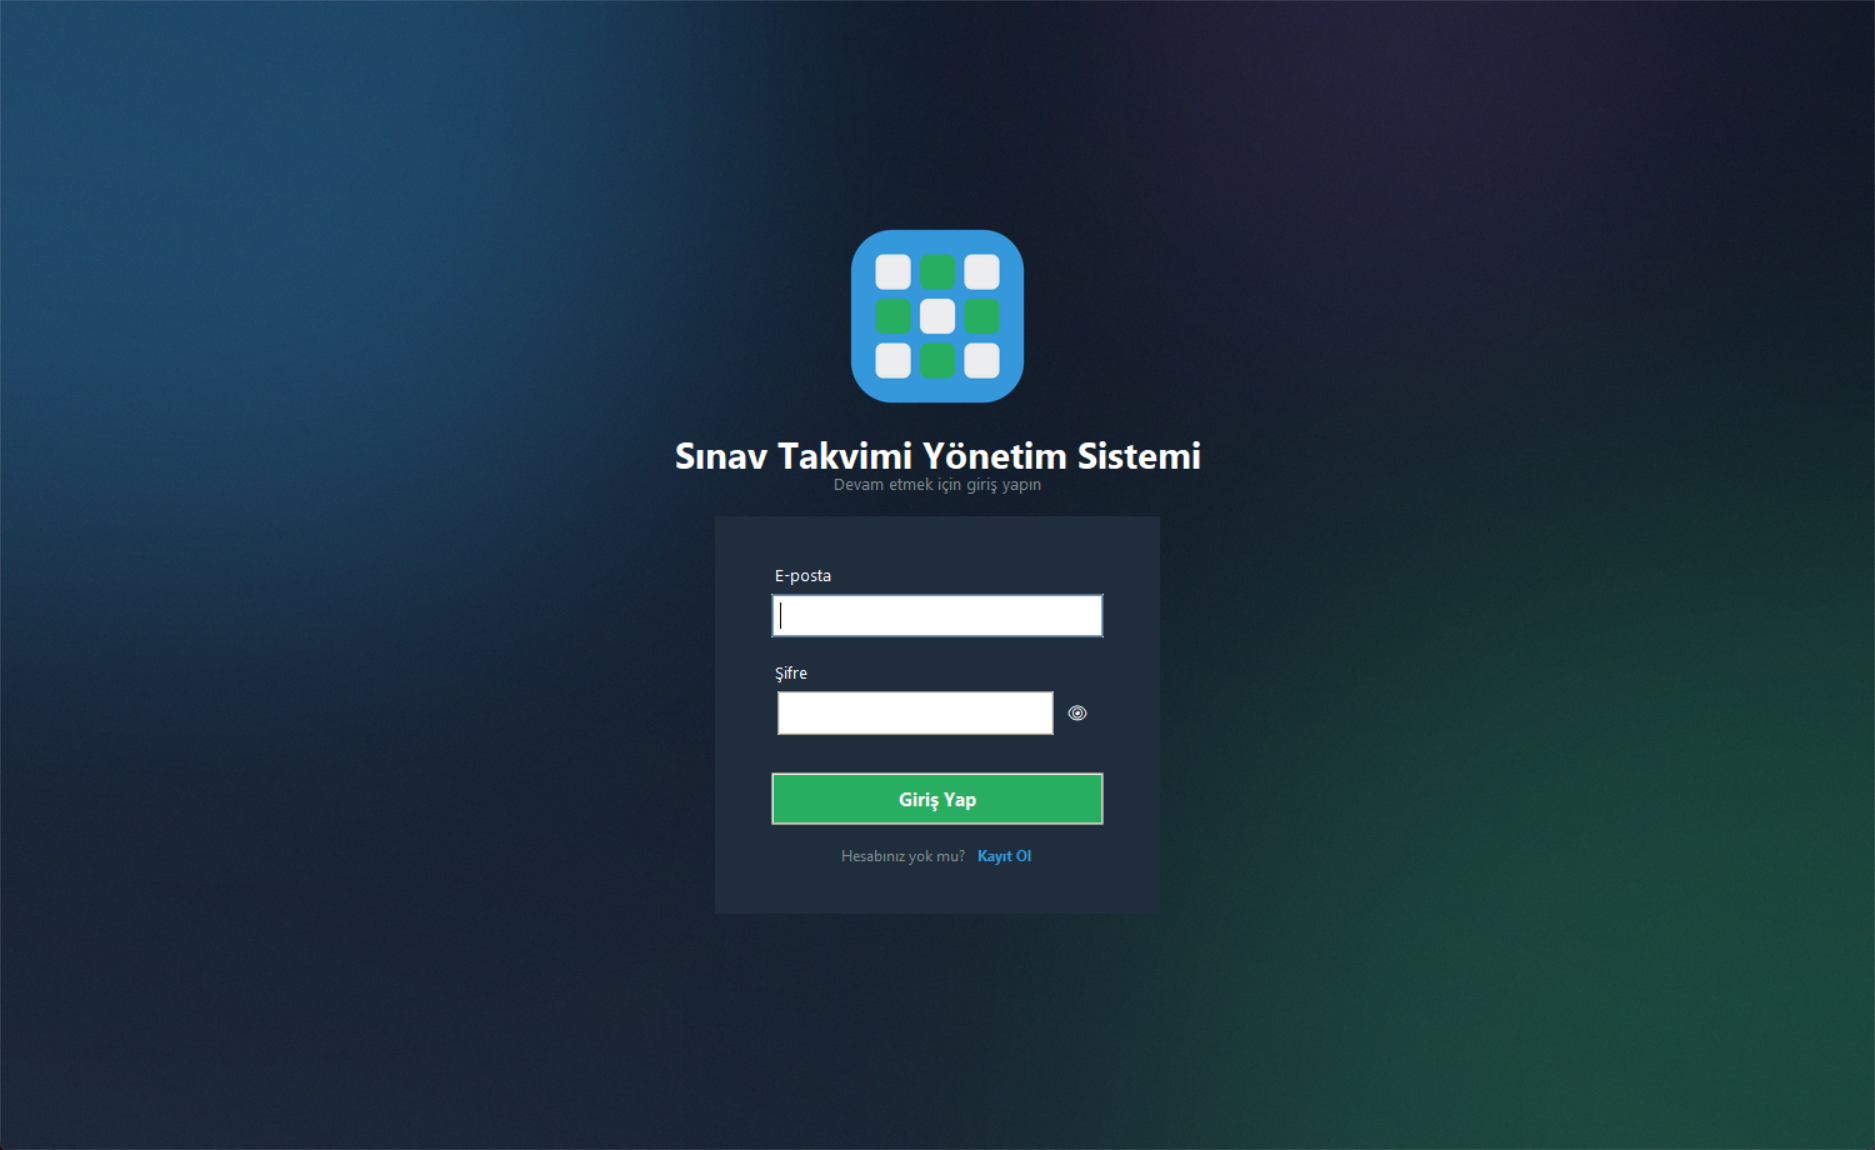
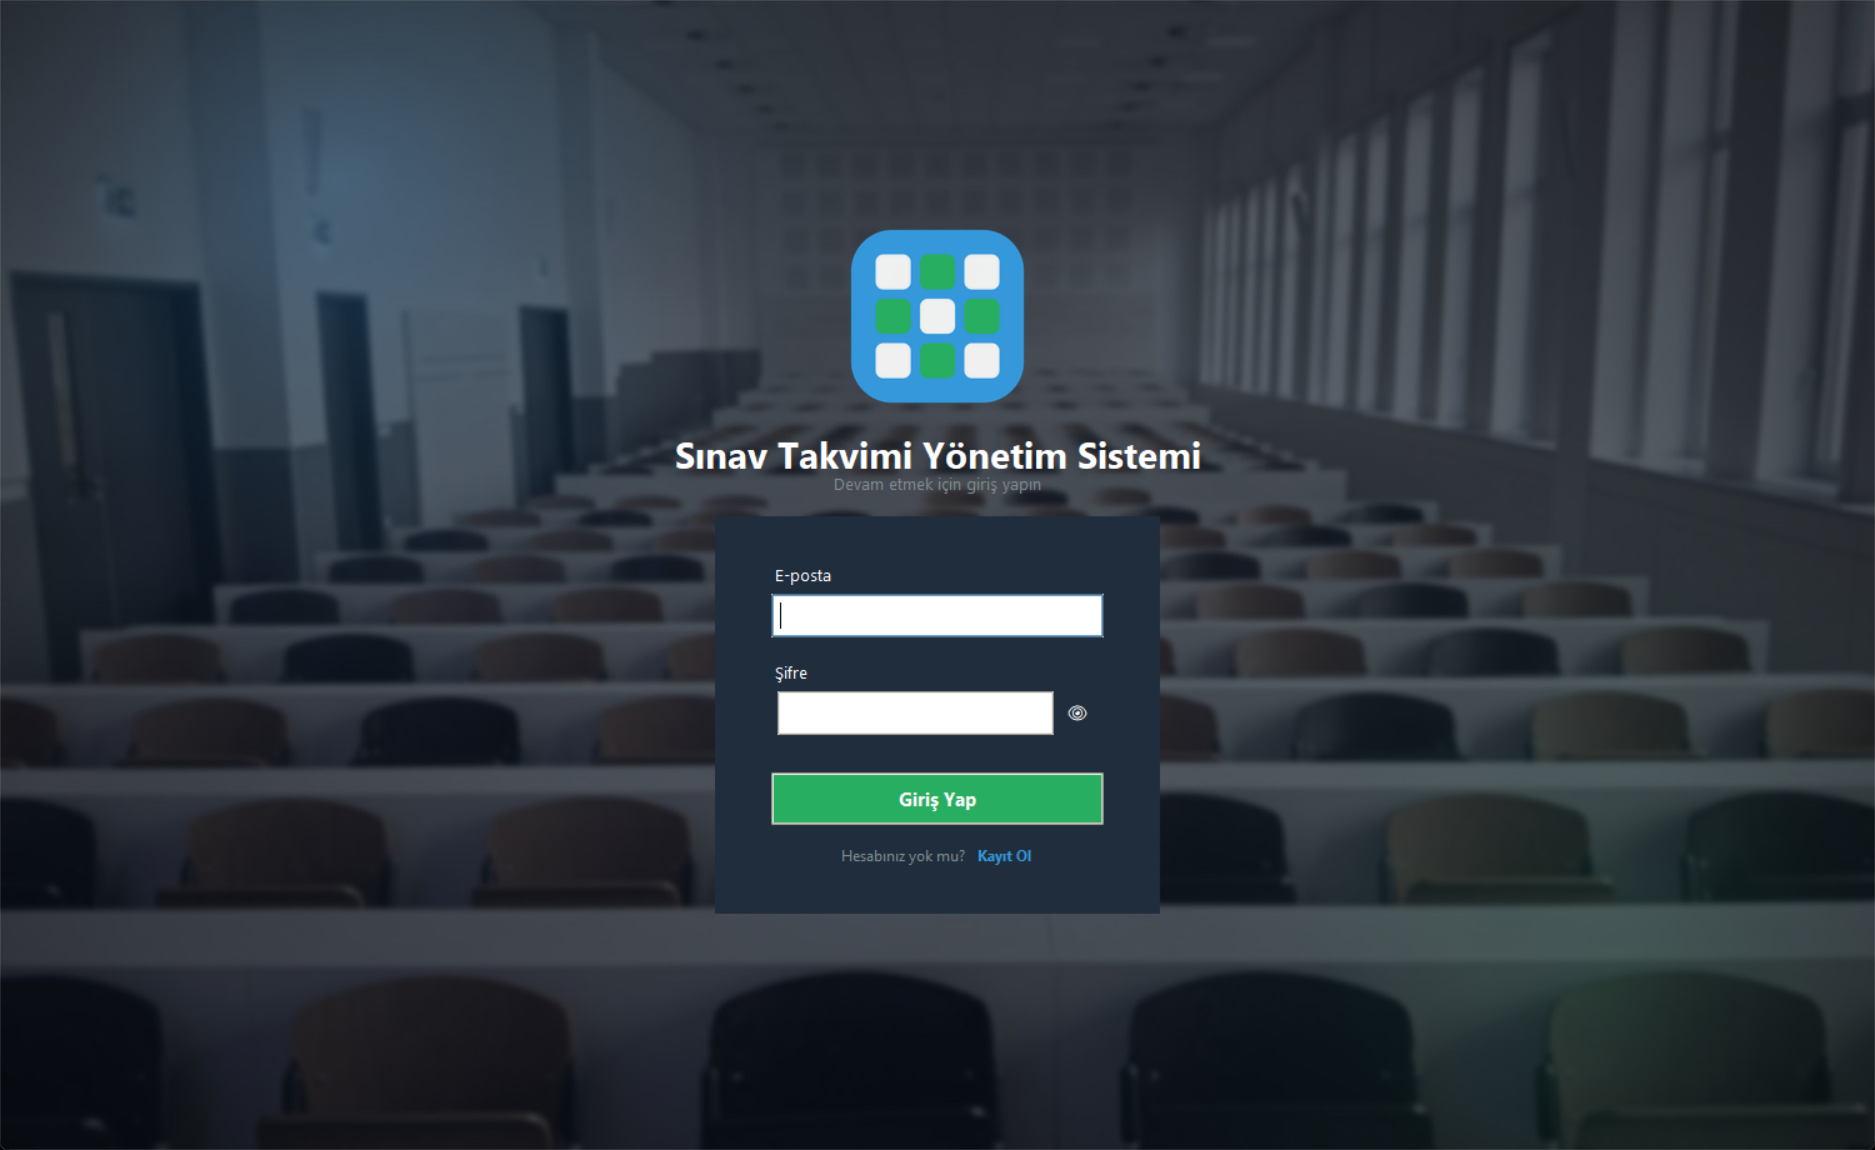
Fotograf arka planlar, tum ekranlara ortak tema ve arayuz duzeltmeleri
Gorseller (Unsplash Lisansi, ticari kullanim serbest, atif zorunlu degil):
- Giris/kayit ekrani: bos amfi fotografi, palete gore koyulastirildi
- Ana panel: derste not alan ogrenciler, icerigin altinda kalacak sekilde
  aciklastirildi ve ust kenari zemine eritildi (gorunur sinir olusmuyor)

Arayuz:
- Klasik tk widget varsayilanlari tek yerden ayarlandi; ~30 alt ekran artik
  Windows'un varsayilan grisi yerine uygulamanin zeminini kullaniyor
- Panele kaydirma cubugu eklendi, icerik sigmadiginda beliriyor
- Kayit ekranindaki bolum listesine + butonu eklendi; listede bolum yoksa
  kullanici artik sikismiyor

Duzeltmeler:
- Ogrenciye ders atama ekranindaki iki liste kutusu birbirinin secimini
  siliyordu (exportselection), duzeltildi
- Ekranlar arasi hizli gecimlerde gecikmeli yerlesim cagrisi yok edilmis
  pencereye ulasip TclError firlatiyordu, yasam dongusu kontrolu eklendi
- Kayit formu, alanlar eklendikten sonra yeniden ortalanmadigi icin uzun
  pencerelerde alttan kesiliyordu

diff --git a/sinav_oturma_plani/ui/dashboard.py b/sinav_oturma_plani/ui/dashboard.py
@@ -13,8 +13,7 @@ class DashboardMixin:
         self._build_menubar()
         self._build_header()
 
-        body = tk.Frame(self.root, bg=COLORS['bg_light'])
-        body.pack(fill=tk.BOTH, expand=True)
+        body, refresh_layout = self._build_scrollable_body()
 
         if self.current_role == "Admin" and not self.current_bolum:
             self._build_department_prompt(body)
@@ -26,6 +25,7 @@ class DashboardMixin:
             self._build_upcoming_exams(body)
 
         self._build_decoration(body)
+        self.root.after(0, refresh_layout)
 
     def _build_menubar(self):
         menubar = tk.Menu(self.root)
@@ -83,15 +83,72 @@ class DashboardMixin:
                 sinav_menu.add_command(label="Çakışma Raporu", command=self.show_exam_conflicts)
                 sinav_menu.add_command(label="Sınav Takvimi (Genel Görünüm)", command=self.show_exam_calendar)
 
+    def _build_scrollable_body(self):
+        """Panel gövdesi. İçerik pencereye sığmadığında kaydırma çubuğu belirir;
+        sığdığında dekor katmanı kalan boşluğu doldurur.
+
+        `(icerik_cercevesi, yerlesimi_tazeleyen_fonksiyon)` döndürür."""
+        outer = tk.Frame(self.root, bg=COLORS['bg_light'])
+        outer.pack(fill=tk.BOTH, expand=True)
+
+        canvas = tk.Canvas(outer, highlightthickness=0, bd=0, bg=COLORS['bg_light'])
+        scrollbar = ttk.Scrollbar(outer, orient="vertical", command=canvas.yview)
+        canvas.configure(yscrollcommand=scrollbar.set)
+        canvas.pack(side=tk.LEFT, fill=tk.BOTH, expand=True)
+
+        inner = tk.Frame(canvas, bg=COLORS['bg_light'])
+        inner_item = canvas.create_window(0, 0, window=inner, anchor="nw")
+
+        def refresh(_event=None):
+            if not canvas.winfo_exists():
+                return
+
+            width, height = canvas.winfo_width(), canvas.winfo_height()
+            if width < 2:
+                return
+            canvas.itemconfig(inner_item, width=width)
+
+            deco = getattr(self, '_panel_decoration', None)
+            if deco is not None and deco.winfo_exists():
+                # Dekor dışındaki içeriğin kapladığı yer kadarını çıkarıp
+                # kalan boşluğu dekora veriyoruz.
+                kullanilan = inner.winfo_reqheight() - int(deco.cget('height'))
+                deco.configure(height=max(90, height - kullanilan))
+
+            gereken = inner.winfo_reqheight()
+            if gereken > height:
+                scrollbar.pack(side=tk.RIGHT, fill=tk.Y)
+                canvas.configure(scrollregion=(0, 0, width, gereken))
+            else:
+                scrollbar.pack_forget()
+                canvas.yview_moveto(0)
+                canvas.configure(scrollregion=(0, 0, width, height))
+
+        canvas.bind("<Configure>", refresh, add="+")
+        inner.bind("<Configure>", refresh, add="+")
+
+        def on_wheel(event):
+            if inner.winfo_reqheight() > canvas.winfo_height():
+                canvas.yview_scroll(-int(event.delta / 120), "units")
+
+        # bind_all yalnızca imleç panelin üzerindeyken bağlanır; aksi halde
+        # açık olan diğer pencerelerin tekerlek olaylarını da yakalardı.
+        canvas.bind("<Enter>", lambda _e: canvas.bind_all("<MouseWheel>", on_wheel))
+        canvas.bind("<Leave>", lambda _e: canvas.unbind_all("<MouseWheel>"))
+
+        return inner, refresh
+
     def _build_decoration(self, parent):
         """İçeriğin altında kalan boşluğu dekoratif arka planla doldurur.
 
         Ayrı bir katman olarak en sona yerleştirilir; böylece içerik ne kadar
         yer kaplarsa kaplasın dekor tam onun bittiği yerden başlar ve araya
         görünür bir sınır girmez."""
-        canvas = tk.Canvas(parent, highlightthickness=0, bd=0, bg=COLORS['bg_light'])
-        canvas.pack(fill=tk.BOTH, expand=True)
+        canvas = tk.Canvas(parent, highlightthickness=0, bd=0, bg=COLORS['bg_light'],
+                            height=90)
+        canvas.pack(fill=tk.X)
         ResponsiveBackground(canvas, self.panel_bg_source)
+        self._panel_decoration = canvas
         return canvas
 
     def _build_header(self):

diff --git a/sinav_oturma_plani/ui/auth.py b/sinav_oturma_plani/ui/auth.py
@@ -1,7 +1,7 @@
 """Giriş, kayıt ve bölüm seçimi ekranları."""
 import re
 import tkinter as tk
-from tkinter import ttk, messagebox
+from tkinter import ttk, messagebox, simpledialog
 
 from pymongo.errors import DuplicateKeyError, PyMongoError
 
@@ -34,6 +34,10 @@ class AuthMixin:
         form_item = canvas.create_window(0, 0, window=form_frame, anchor="n")
 
         def layout(_event=None):
+            # Ekran değişiminde canvas, gecikmeli çağrı gelmeden yok edilebilir.
+            if not canvas.winfo_exists():
+                return
+
             w, h = canvas.winfo_width(), canvas.winfo_height()
             if w < 2 or h < 2:
                 return
@@ -48,6 +52,9 @@ class AuthMixin:
             canvas.coords(form_item, cx, top + 235)
 
         canvas.bind("<Configure>", layout, add="+")
+        # Form alanları bu fonksiyon döndükten sonra ekleniyor; yüksekliği
+        # kesinleştiğinde yeniden ortalayabilmek için formu da dinliyoruz.
+        form_frame.bind("<Configure>", layout, add="+")
         self.root.after(0, layout)
         return form_frame
 
@@ -143,13 +150,38 @@ class AuthMixin:
         password2_entry.grid(row=5, column=0, pady=(0, 12))
 
         self._form_label(form, "Bölüm", 6)
+        bolum_row = tk.Frame(form, bg=COLORS['bg_dark'])
+        bolum_row.grid(row=7, column=0, pady=(0, 10), sticky="w")
+
         bolumler = [b['bolum_adi'] for b in self.db.bolumler.find().sort('bolum_adi', 1)]
         bolum_var = tk.StringVar(value=bolumler[0] if bolumler else "")
-        ttk.Combobox(form, textvariable=bolum_var, values=bolumler,
-                     state="readonly", width=26).grid(row=7, column=0, pady=(0, 10))
+        bolum_combo = ttk.Combobox(bolum_row, textvariable=bolum_var, values=bolumler,
+                                    state="readonly", width=22)
+        bolum_combo.pack(side=tk.LEFT)
 
-        tk.Label(form, text="Yeni hesaplar 'Bölüm Koordinatörü' olarak açılır.\n"
-                            "Admin yetkisini yalnızca bir yönetici verebilir.",
+        def add_bolum():
+            ad = simpledialog.askstring("Bölüm Ekle", "Yeni bölüm adı:", parent=self.root)
+            if not ad or not ad.strip():
+                return
+            ad = ad.strip()
+            try:
+                self.db.bolumler.insert_one({'bolum_adi': ad})
+            except DuplicateKeyError:
+                pass
+            except PyMongoError as e:
+                messagebox.showerror("Hata", f"Bölüm eklenemedi: {e}")
+                return
+            bolum_combo['values'] = [b['bolum_adi'] for b in
+                                      self.db.bolumler.find().sort('bolum_adi', 1)]
+            bolum_var.set(ad)
+
+        tk.Button(bolum_row, text="+", font=("Segoe UI", 11, "bold"), width=3, relief="flat",
+                  bd=0, bg=COLORS['primary'], fg="white", activebackground=COLORS['primary'],
+                  activeforeground="white", cursor="hand2",
+                  command=add_bolum).pack(side=tk.LEFT, padx=(6, 0))
+
+        tk.Label(form, text="Listede bölümünüz yoksa + ile ekleyebilirsiniz.\n"
+                            "Yeni hesaplar 'Bölüm Koordinatörü' olarak açılır.",
                  font=("Segoe UI", 8), bg=COLORS['bg_dark'], fg=COLORS['text_muted'],
                  justify=tk.LEFT).grid(row=8, column=0, sticky="w")
 
@@ -172,7 +204,7 @@ class AuthMixin:
                 messagebox.showerror("Hata", "Şifreler eşleşmiyor!")
                 return
             if not bolum:
-                messagebox.showerror("Hata", "Önce bir bölüm oluşturulmalı, yöneticinizle görüşün!")
+                messagebox.showerror("Hata", "Bir bölüm seçin veya + ile yeni bir tane ekleyin!")
                 return
 
             try:

diff --git a/sinav_oturma_plani/styles.py b/sinav_oturma_plani/styles.py
@@ -85,6 +85,28 @@ def configure_styles(style):
     style.configure('Treeview.Heading', font=('Segoe UI', 10, 'bold'))
 
 
+def apply_widget_defaults(root):
+    """Klasik tk widget'ları için varsayılan renkleri ayarlar.
+
+    Windows'un varsayılan gri tonu yerine uygulamanın zemin rengi kullanılır;
+    böylece ~30 ekranın her biri tek tek elden geçirilmeden aynı görünümü alır.
+    Kendi `bg`/`fg` değerini açıkça veren widget'lar bundan etkilenmez."""
+    for widget in ('Toplevel', 'Frame', 'Label', 'Labelframe',
+                    'Checkbutton', 'Radiobutton'):
+        root.option_add(f'*{widget}.background', COLORS['bg_light'])
+
+    for widget in ('Label', 'Labelframe', 'Checkbutton', 'Radiobutton'):
+        root.option_add(f'*{widget}.foreground', COLORS['text_dark'])
+
+    for widget in ('Checkbutton', 'Radiobutton'):
+        root.option_add(f'*{widget}.activeBackground', COLORS['bg_light'])
+        root.option_add(f'*{widget}.activeForeground', COLORS['text_dark'])
+        root.option_add(f'*{widget}.selectColor', COLORS['bg_card'])
+
+    root.option_add('*Entry.background', COLORS['bg_card'])
+    root.option_add('*Listbox.background', COLORS['bg_card'])
+
+
 class _HoverButton(tk.Button):
     """Üzerine gelindiğinde arka planı açılan/koyulaşan tk.Button."""
 
@@ -241,14 +263,32 @@ def generate_panel_background(width, height):
     return Image.alpha_composite(img.convert('RGBA'), layer).convert('RGB')
 
 
+def fade_top_to_base(img, fade_ratio=0.55):
+    """Görselin üst kısmını panel zemin rengine doğru eritir.
+
+    En üst satır tam olarak zemin rengi olur; böylece görsel, üstündeki içerik
+    çerçevesinin bittiği yerde görünür bir sınır oluşturmadan başlar."""
+    base = np.array([int(COLORS['bg_light'][i:i + 2], 16) for i in (1, 3, 5)], dtype=np.float32)
+    arr = np.array(img).astype(np.float32)
+    height = arr.shape[0]
+
+    yy = np.arange(height, dtype=np.float32).reshape(-1, 1, 1)
+    t = np.clip(yy / max(height * fade_ratio, 1.0), 0.0, 1.0) ** 1.3
+    arr = base * (1 - t) + arr * t
+    return Image.fromarray(np.clip(arr, 0, 255).astype(np.uint8), mode='RGB')
+
+
 def get_panel_background():
-    """`assets/panel_background.png|jpg` varsa o görseli, yoksa boyuta göre
-    desen üreten fonksiyonun kendisini döndürür."""
+    """Panel arka planını `(genislik, yukseklik) -> Image` üreteci olarak döndürür.
+
+    `assets/panel_background.png|jpg` varsa o görsel kırpılıp üst kenarı zemine
+    eritilerek kullanılır; yoksa desen programatik üretilir."""
     for ext in ('png', 'jpg', 'jpeg'):
         path = os.path.join(_ASSETS_DIR, f'panel_background.{ext}')
         if os.path.isfile(path):
             try:
-                return Image.open(path).convert('RGB')
+                asset = Image.open(path).convert('RGB')
+                return lambda w, h: fade_top_to_base(cover_resize(asset, w, h))
             except Exception as e:
                 print(f"Uyarı: assets/panel_background.{ext} okunamadı: {e}")
     return generate_panel_background

diff --git a/sinav_oturma_plani/ui/students.py b/sinav_oturma_plani/ui/students.py
@@ -529,7 +529,10 @@ class StudentMixin:
         search_entry = tk.Entry(left_frame, font=("Arial", 10), width=20)
         search_entry.pack(pady=5)
 
-        student_listbox = tk.Listbox(left_frame, font=("Arial", 10), height=15)
+        # exportselection=False olmadan, aynı penceredeki iki liste kutusundan
+        # birini seçmek diğerinin seçimini temizler (Tk'nin PRIMARY seçim sahipliği).
+        student_listbox = tk.Listbox(left_frame, font=("Arial", 10), height=15,
+                                      exportselection=False)
         student_listbox.pack(fill=tk.BOTH, expand=True, pady=5)
 
         student_dict = {}
@@ -561,7 +564,7 @@ class StudentMixin:
         right_frame.pack(side=tk.RIGHT, fill=tk.BOTH, expand=True, padx=10, pady=10)
 
         course_listbox = tk.Listbox(right_frame, font=("Arial", 10), height=15,
-                                    selectmode=tk.MULTIPLE)
+                                    selectmode=tk.MULTIPLE, exportselection=False)
         course_listbox.pack(fill=tk.BOTH, expand=True, pady=5)
 
         course_dict = {}

diff --git a/sinav_oturma_plani/app.py b/sinav_oturma_plani/app.py
@@ -7,7 +7,8 @@ from datetime import datetime
 from tkinter import ttk, messagebox
 from PIL import Image, ImageTk
 
-from .styles import configure_styles, get_app_icon, get_login_background, get_panel_background
+from .styles import (apply_widget_defaults, configure_styles, get_app_icon,
+                      get_login_background, get_panel_background)
 from .database import DatabaseManager
 from .ui.auth import AuthMixin
 from .ui.dashboard import DashboardMixin
@@ -29,6 +30,7 @@ class SinavTakvimiApp(AuthMixin, DashboardMixin, InstructorMixin, ClassroomMixin
 
         self.style = ttk.Style(self.root)
         configure_styles(self.style)
+        apply_widget_defaults(self.root)
 
         # PhotoImage referansları self üzerinde tutulmalı, aksi halde çöp
         # toplanır ve görseller boş çıkar.

diff --git a/sinav_oturma_plani/ui/background.py b/sinav_oturma_plani/ui/background.py
@@ -31,10 +31,16 @@ class ResponsiveBackground:
 
     def _draw(self, width, height):
         self._job = None
+        # Ekran değişimlerinde canvas, gecikmeli çizim tetiklenmeden yok edilebilir.
+        if not self.canvas.winfo_exists():
+            return
         self._photo = ImageTk.PhotoImage(self._render(width, height))
         self.canvas.itemconfig(self.item, image=self._photo)
 
     def _on_configure(self, _event=None):
+        if not self.canvas.winfo_exists():
+            return
+
         width, height = self.canvas.winfo_width(), self.canvas.winfo_height()
         if width < 2 or height < 2 or self._size == (width, height):
             return

diff --git a/assets/README.md b/assets/README.md
@@ -1,8 +1,19 @@
-# Görsel Değiştirme
+# Görseller
 
-Bu klasöre aşağıdaki dosyalardan birini/ikisini koyarsanız, uygulama kod
-değişikliği gerektirmeden otomatik olarak bunları kullanır. Dosya yoksa
-programatik üretilen varsayılan görsel kullanılır.
+## Pakete dahil olanlar
+
+| Dosya | Kaynak |
+|-------|--------|
+| `login_background.jpg` | [Unsplash](https://unsplash.com/photos/empty-lecture-hall-with-rows-of-seats-I8PUo5Xk8DU) — boş amfi. Uygulamanın paletine göre koyulaştırılıp renklendirildi. |
+| `panel_background.jpg` | [Unsplash](https://unsplash.com/photos/students-attentively-taking-notes-in-a-lecture-hall-NKr9f2t8Lgk) — derste not alan öğrenciler. Panelde içeriğin altında kalması için açıklaştırıldı. |
+
+Her iki görsel de [Unsplash Lisansı](https://unsplash.com/license) ile
+dağıtılıyor: ticari kullanım dahil ücretsiz, atıf zorunlu değil.
+
+## Kendi görselinizi koymak
+
+Aşağıdaki dosyalardan birini bu klasöre koyarsanız, uygulama kod değişikliği
+gerektirmeden onu kullanır. Dosya yoksa programatik üretilen desen devreye girer.
 
 | Dosya adı                | Boyut (önerilen) | Açıklama |
 |--------------------------|-------------------|----------|

diff --git a/README.md b/README.md
@@ -2,7 +2,7 @@
 
 Üniversite bölümleri için sınav takvimi oluşturma ve otomatik oturma planı (yerleşim düzeni) hazırlama amaçlı masaüstü uygulaması.
 
-Giriş ekranı — pencereyle birlikte ölçeklenen arka plan, şifre göster/gizle ve kayıt bağlantısı:
+Giriş ekranı — pencereyle birlikte ölçeklenen amfi arka planı, şifre göster/gizle ve kayıt bağlantısı:
 
 ![Giriş ekranı](giris-ekrani.png)
 
@@ -23,6 +23,7 @@ flowchart LR
 ## Özellikler
 
 - Rol tabanlı giriş (Admin / Bölüm Koordinatörü) ve kendi kendine kayıt olma
+- Pencere boyutuna uyum sağlayan görsel arka planlar (`assets/` klasörüne dosya koyarak değiştirilebilir)
 - Ana panelde özet istatistik kartları, hızlı işlem kısayolları ve yaklaşan sınav listesi
 - Bölüm, derslik ve ders yönetimi
 - Sınav programı oluşturma (öğrenci çakışmalarını otomatik olarak önlemeye çalışan yerleştirme algoritması)
